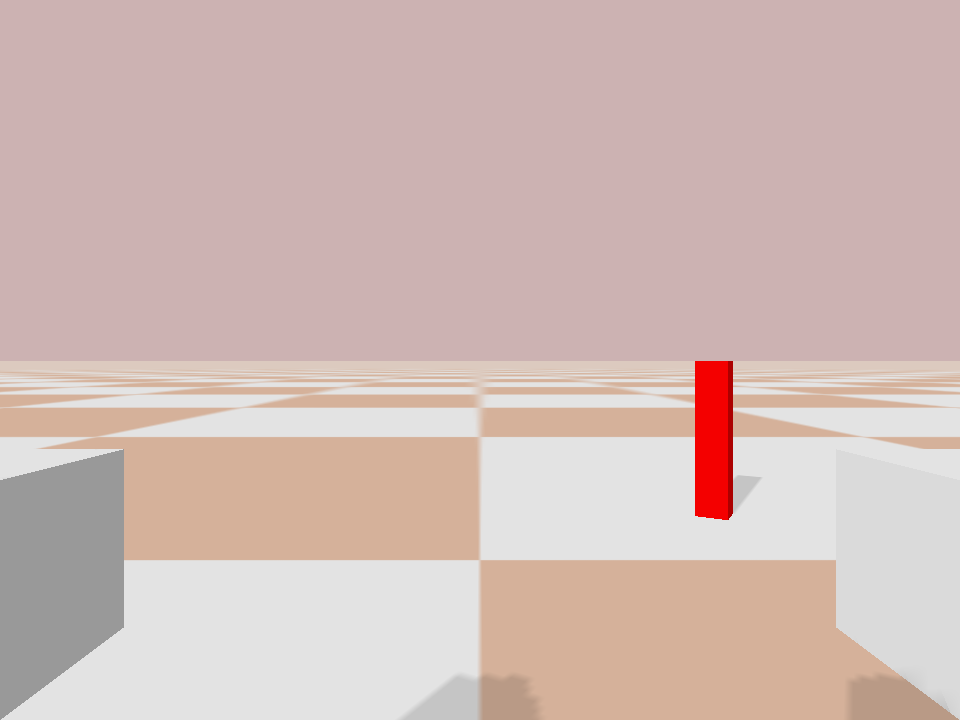
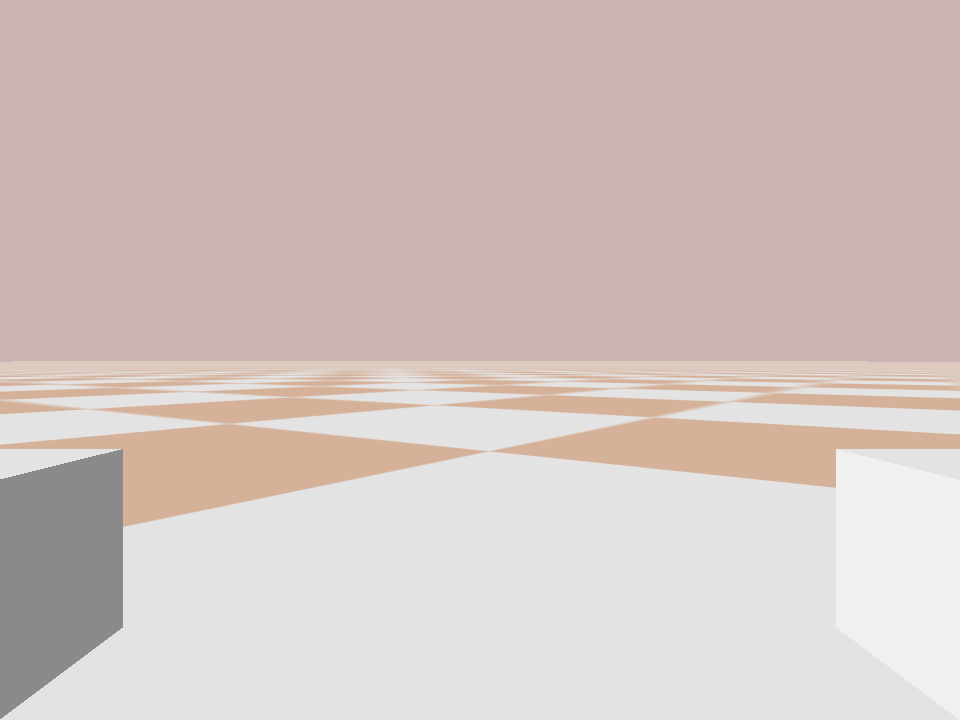
working demo env

Changed region(s): [[0.0, 0.4889, 1.0, 1.0]]

diff --git a/underactuated_manipulation_gym/envs/simple_driving_env.py b/underactuated_manipulation_gym/envs/simple_driving_env.py
@@ -30,7 +30,7 @@ class DifferentialDriveEnv(gym.Env):
         self.previous_distance = None
 
 
-    def reset(self):
+    def reset(self, seed=None):
         # Reset the environment to its initial state
         self.step_i = 0
         pos = [0, 0, 0.4]
@@ -40,7 +40,7 @@ class DifferentialDriveEnv(gym.Env):
         for _ in range(100):
             p.stepSimulation()
         # Return the initial observation
-        return self._get_observation()
+        return self._get_observation(), {}
 
     def step(self, action):
         # Extract the action components
@@ -70,13 +70,15 @@ class DifferentialDriveEnv(gym.Env):
     def _reward(self, observation, action):
         # Define your reward function
         distance = self._calculate_robot_object_distance()
+        # print(distance)
         if self.previous_distance is None:
             self.previous_distance = distance
-        reward = self.previous_distance - distance
+        reward = 10*(self.previous_distance - distance)
         self.previous_distance = distance
         x, y, contact = observation
         if contact:
-            reward += 10
+            reward += 1000
+        # print(reward)
         return reward
     
     def _calculate_robot_object_distance(self):
@@ -85,14 +87,16 @@ class DifferentialDriveEnv(gym.Env):
         object_link_state = p.getBasePositionAndOrientation(object_id)[0]
         robot_link_state = p.getLinkState(robot_id, 5)[0]
         distance = ((object_link_state[0] - robot_link_state[0]) ** 2 +
-                    (object_link_state[1] - robot_link_state[1] ** 2) )** 0.5
+                    (object_link_state[1] - robot_link_state[1]) ** 2 )** 0.5
         
         return distance
 
     def _get_observation(self):
-        robot_state = self.robot.get_observation()
+        robot_state = self.robot.get_state()
+        object_state = self.current_object.get_state()
         # convert robot_state to environment_state (i.e. observation)
         queenie_pos, queenie_orn = robot_state["base_pose"]
+        polar_r, polar_theta = self.cartesian_to_polar_2d(object_state[0][0], object_state[0][1], queenie_pos[0], queenie_pos[1])
         contact_points = robot_state["contact_points"]
         contact = len(contact_points) > 0
         try:
@@ -102,10 +106,31 @@ class DifferentialDriveEnv(gym.Env):
             print("no image")
             print(robot_state)
 
-        x, y = queenie_pos[0:2]
-        return np.array([x, y, contact])
+        # convert to polar coordinates:
 
+        return np.array([polar_r, polar_theta, contact])
 
+    def cartesian_to_polar_2d(self, x_target, y_target, x_origin = 0, y_origin = 0):
+        """Transform 2D cartesian coordinates to 2D polar coordinates.
+
+        Args:
+            x_target (type): x coordinate of target point.
+            y_target (type): y coordinate of target point.
+            x_origin (type): x coordinate of origin of polar system. Defaults to 0.
+            y_origin (type): y coordinate of origin of polar system. Defaults to 0.
+
+        Returns:
+            float, float: r,theta polard coordinates.
+
+        """
+
+        delta_x = x_target - x_origin
+        delta_y = y_target - y_origin
+        polar_r = np.sqrt(delta_x**2+delta_y**2)
+        polar_theta = np.arctan2(delta_y,delta_x)
+
+        return polar_r, polar_theta
+    
     def render(self, mode='human'):
         # If you want to visualize the robot's behavior, you can implement this method
         pass

diff --git a/underactuated_manipulation_gym/resources/man_object.py b/underactuated_manipulation_gym/resources/man_object.py
@@ -15,6 +15,10 @@ class ObjectMan():
     def get_ids(self):
         return self.client, self.manipulation_object
     
+
+    def get_state(self):
+        return p.getBasePositionAndOrientation(self.manipulation_object, physicsClientId=self.client)
+    
     def remove_from_sim(self):
         p.removeBody(self.manipulation_object, physicsClientId=self.client)
 

diff --git a/underactuated_manipulation_gym/resources/queenie.py b/underactuated_manipulation_gym/resources/queenie.py
@@ -53,7 +53,7 @@ class Queenie_Robot():
     Returns the observation of the robot in a dictionary format with
     separate keys for camera, joint states, and contact points
     """
-    def get_observation(self):
+    def get_state(self):
         # Base position and orientation
         base_pose = p.getBasePositionAndOrientation(self.robot)
 

diff --git a/simple_driving_agent.py b/simple_driving_agent.py
@@ -1,0 +1,11 @@
+import gymnasium as gym
+from stable_baselines3 import SAC
+import underactuated_manipulation_gym
+import time
+import numpy as np
+
+env = gym.make("queenie_gym_envs/DifferentialDriveEnv-v0")
+env.reset()
+model = SAC("MlpPolicy", env, verbose=1)
+model.learn(total_timesteps=10000, log_interval=10)
+model.save("sac_queenie")
